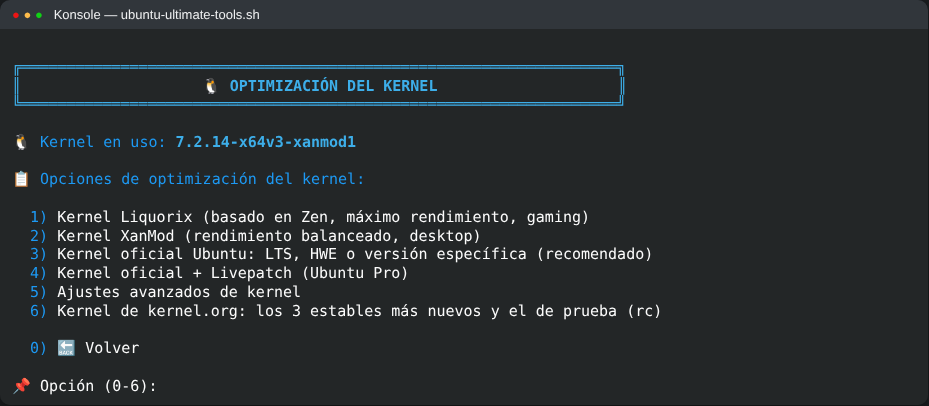
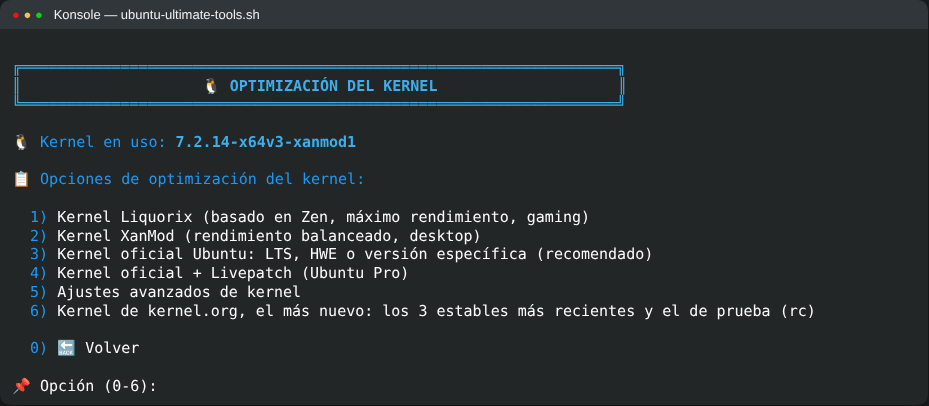
Kernel de kernel.org más a la vista (3.5.5)
- Menú principal: "Kernel: Liquorix, XanMod, oficial o el más nuevo de kernel.org"
- La lista de versiones oficiales avisa que las de kernel.org están en 14 → 6
- Capturas del menú principal y del kernel

Changed region(s): [[0.2497, 0.7389, 0.8741, 0.798]]

diff --git a/CHANGELOG.md b/CHANGELOG.md
@@ -14,6 +14,7 @@ Los tres scripts (`ubuntu-`, `debian-` y `arch-ultimate-tools.sh`) comparten la 
 
 | Versión | Fecha | Hito | Cambios | Líneas agregadas | Líneas quitadas |
 |---|---|---|---:|---:|---:|
+| [3.5.5](#355--2026-11-28) | 2026-11-28 | Kernel de kernel.org más a la vista | 1 | | |
 | [3.5.4](#354--2026-11-28) | 2026-11-28 | KDE neon: respaldo con apt | 2 | | |
 | [3.5.3](#353--2026-11-28) | 2026-11-28 | Actualizar copias de git | 1 | | |
 | [3.5.2](#352--2026-11-28) | 2026-11-28 | KDE neon y actualización sin caché | 2 | | |
@@ -29,10 +30,18 @@ Los tres scripts (`ubuntu-`, `debian-` y `arch-ultimate-tools.sh`) comparten la 
 | [1.1.0](#110--2026-11-09) | 2026-11-09 | Menú de arranque | 8 | 1.146 | 133 |
 | [1.0.0](#100--2026-11-01) | 2026-11-01 | Primera versión completa (Kubuntu) | 8 | 3.065 | 590 |
 | [0.1.0](#010--2026-05-22) | 2026-05-22 | Kubuntu Transformer | 8 | 2.270 | 0 |
-| **Total** | | | **110** | **59.153** | **3.784** |
+| **Total** | | | **111** | **59.153** | **3.784** |
 
 Hoy: **3 scripts** (Ubuntu, Debian y Arch), **23 opciones** en el menú principal, más de **40 sistemas** para descargar y
 el código en **8 piezas** (`partes/`) que `armar.sh` une.
+
+## [3.5.5] — 2026-11-28
+
+**Kernel de kernel.org más a la vista.**
+
+1 cambio
+
+- El menú principal dice "Kernel: Liquorix, XanMod, oficial o el más nuevo de kernel.org", y la lista de versiones oficiales de Ubuntu (14 → 3 → 3) avisa que las más nuevas de kernel.org (estables y de prueba) están en 14 → 6
 
 ## [3.5.4] — 2026-11-28
 

diff --git a/README.md b/README.md
@@ -4,7 +4,7 @@
 
 ### Limpia, optimiza y repara Ubuntu, Debian y Arch (y sus derivadas) desde un solo menú
 
-[![Versión](https://img.shields.io/badge/Versión-3.5.4-7aa2f7.svg)](CHANGELOG.md)
+[![Versión](https://img.shields.io/badge/Versión-3.5.5-7aa2f7.svg)](CHANGELOG.md)
 [![Licencia](https://img.shields.io/badge/Licencia-AGPL%20v3-blue.svg)](LICENSE)
 [![Bash](https://img.shields.io/badge/Shell-Bash-4EAA25?logo=gnu-bash&logoColor=white)](https://www.gnu.org/software/bash/)
 [![Ubuntu](https://img.shields.io/badge/Ubuntu-22.04%2B-E95420?logo=ubuntu&logoColor=white)](https://ubuntu.com/)
@@ -973,7 +973,7 @@ bash armar.sh   →   ubuntu-ultimate-tools.sh   debian-ultimate-tools.sh   arch
 
 ## 🔖 Versiones
 
-Versión actual: **3.5.4** (2026-11-28). Todos los cambios, contados por versión, están en
+Versión actual: **3.5.5** (2026-11-28). Todos los cambios, contados por versión, están en
 [CHANGELOG.md](CHANGELOG.md). Para ver qué versión tienes: `./ubuntu-ultimate-tools.sh --version` (o el script de
 tu distribución); también aparece en la cabecera del menú.
 
